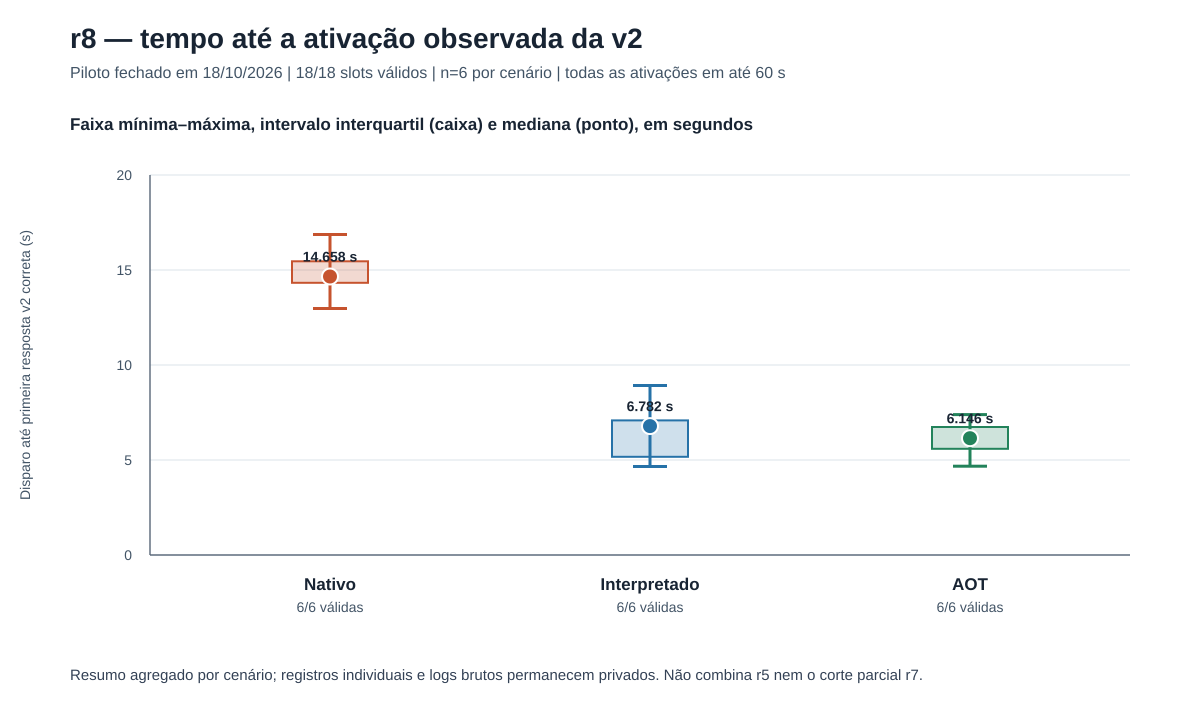
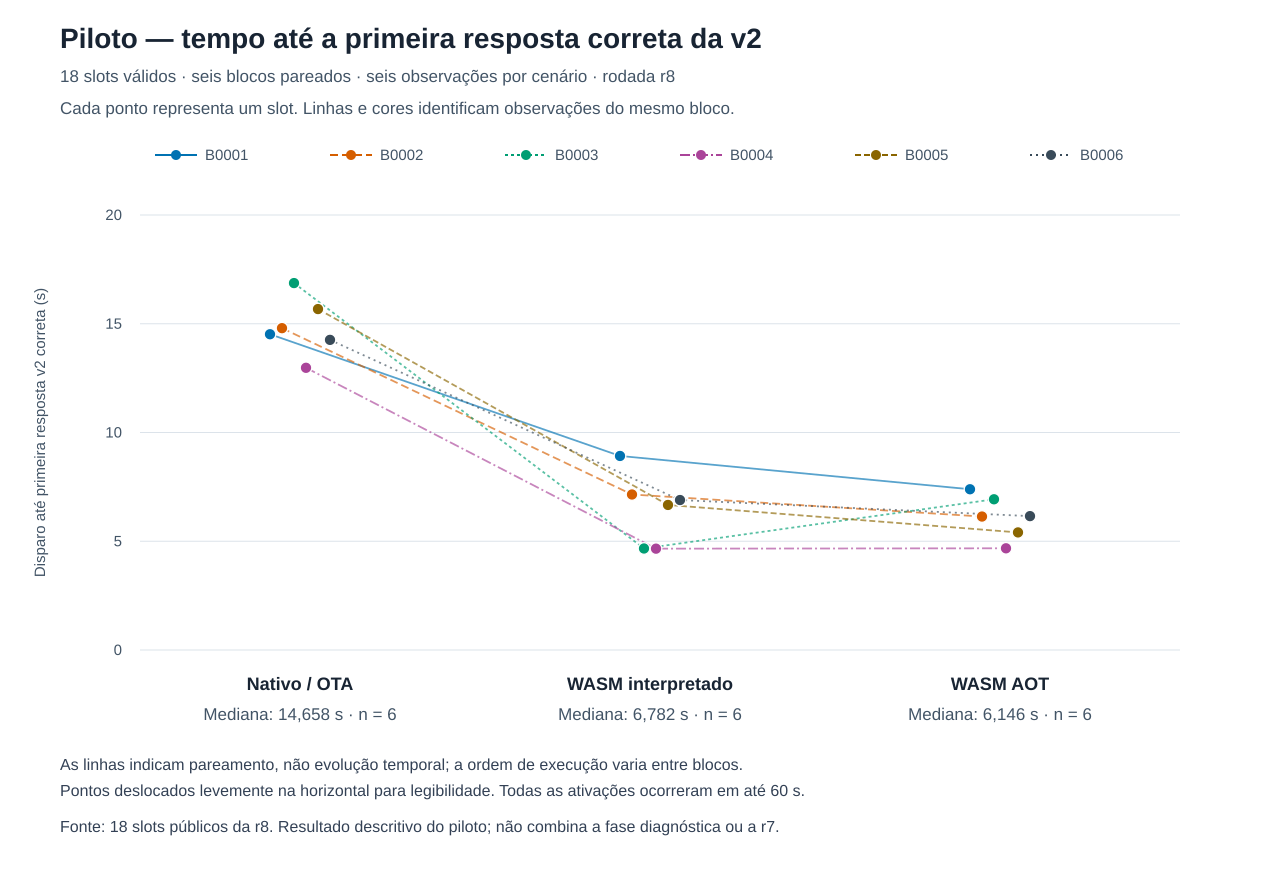
Mostra observações individuais e pareamento no gráfico do piloto

diff --git a/analysis/plot_r8_pilot.py b/analysis/plot_r8_pilot.py
@@ -1,88 +1,100 @@
 #!/usr/bin/env python3
-"""Render aggregate r8 pilot activation summaries from the sanitized CSV."""
+"""Render paired r8 observations and medians from public sanitized CSVs."""
 import argparse
 import csv
 import html
 import subprocess
+from decimal import Decimal
 from pathlib import Path
+from summarize_r8_pilot import summarize
 
-COLORS = {"native": "#C6532E", "interp": "#2672A8", "aot": "#23835B"}
-LABELS = {"native": "Nativo", "interp": "Interpretado", "aot": "AOT"}
-ORDER = ("native", "interp", "aot")
+ORDER = ('native', 'interp', 'aot')
+LABELS = {'native': 'Nativo / OTA', 'interp': 'WASM interpretado', 'aot': 'WASM AOT'}
+COLORS = ('#0072B2', '#D55E00', '#009E73', '#AA4499', '#8A6500', '#394B59')
+DASHES = ('', '8 4', '3 3', '10 3 2 3', '6 3', '2 4')
 
 
-def render(rows, svg_path, png_path=None):
-    width, height = 1200, 710
-    left, right = 150, 1130
-    top, bottom = 175, 555
-    y_max = 20.0
-    scale = (bottom - top) / y_max
-    x_positions = {"native": 330, "interp": 650, "aot": 970}
-    by_scenario = {row["scenario"]: row for row in rows}
+def render(rows, slots, svg_path, png_path=None):
+    calculated = summarize(slots)
+    if rows != [{key: str(value) for key, value in row.items()} for row in calculated]:
+        raise ValueError('Aggregate CSV differs from the individual observations.')
+    blocks = sorted({r['block_id'] for r in slots})
+    indexed = {(r['block_id'], r['scenario']): r for r in slots}
+    if any(r['instrument_status'] != 'valid' or r['adjudication'] != 'valid'
+           or not r['activation_time_s'] for r in slots):
+        raise ValueError('This r8 figure requires all 18 adjudicated activation observations.')
+    if any(not Decimal(r['activation_time_s']).is_finite()
+           or not 0 <= Decimal(r['activation_time_s']) <= 20 for r in slots):
+        raise ValueError('Activation observation outside the displayed 0–20 s range.')
+    width, height = 1280, 870
+    left, right, top, bottom = 140, 1180, 215, 650
+    xpos = dict(zip(ORDER, (300, 650, 1000)))
+    y = lambda value: bottom - float(value) * (bottom - top) / 20
     esc = lambda value: html.escape(str(value), quote=True)
     out = [
-        f'<svg xmlns="http://www.w3.org/2000/svg" width="{width}" height="{height}" viewBox="0 0 {width} {height}">',
-        '<rect width="100%" height="100%" fill="#fff"/>',
-        '<style>text{font-family:Arial,Helvetica,sans-serif;fill:#182433}.title{font-size:28px;font-weight:700}.sub{font-size:16px;fill:#425466}.panel{font-size:17px;font-weight:700}.tick{font-size:14px;fill:#425466}.axis{stroke:#586777;stroke-width:1.4}.grid{stroke:#dce3ea;stroke-width:1}.note{font-size:15px;fill:#334155}.category{font-size:17px;font-weight:700}.value{font-size:14px;font-weight:700}</style>',
-        '<text class="title" x="70" y="48">r8 — tempo até a ativação observada da v2</text>',
-        '<text class="sub" x="70" y="78">Piloto fechado em 18/10/2026 | 18/18 slots válidos | n=6 por cenário | todas as ativações em até 60 s</text>',
-        '<text class="panel" x="70" y="130">Faixa mínima–máxima, intervalo interquartil (caixa) e mediana (ponto), em segundos</text>',
+        f'<svg xmlns="http://www.w3.org/2000/svg" width="{width}" height="{height}" viewBox="0 0 {width} {height}" role="img" aria-labelledby="title desc">',
+        '<title id="title">Piloto r8: tempos individuais de ativação da v2, pareados por bloco</title>',
+        '<desc id="desc">Seis blocos com três cenários cada. Cada ponto é um slot; as linhas unem o mesmo bloco. As medianas de cada cenário são informadas abaixo do eixo. A ordem no eixo não representa a ordem de execução.</desc>',
+        '<rect width="100%" height="100%" fill="white"/>',
+        '<style>text{font-family:DejaVu Sans,Arial,sans-serif;fill:#182433}.title{font-size:28px;font-weight:700}.sub{font-size:17px;fill:#425466}.tick{font-size:15px;fill:#425466}.label{font-size:18px;font-weight:700}.note{font-size:16px;fill:#334155}</style>',
+        '<text class="title" x="60" y="48">Piloto — tempo até a primeira resposta correta da v2</text>',
+        '<text class="sub" x="60" y="82">18 slots válidos · seis blocos pareados · seis observações por cenário · rodada r8</text>',
+        '<text class="sub" x="60" y="114">Cada ponto representa um slot. Linhas e cores identificam observações do mesmo bloco.</text>',
     ]
-    tick = 0
-    while tick <= y_max:
-        y = bottom - tick * scale
-        out += [
-            f'<line class="grid" x1="{left}" y1="{y:.1f}" x2="{right}" y2="{y:.1f}"/>',
-            f'<text class="tick" x="{left-18}" y="{y+5:.1f}" text-anchor="end">{tick}</text>',
-        ]
-        tick += 5
-    out += [
-        f'<line class="axis" x1="{left}" y1="{top}" x2="{left}" y2="{bottom}"/>',
-        f'<line class="axis" x1="{left}" y1="{bottom}" x2="{right}" y2="{bottom}"/>',
-        f'<text class="tick" x="30" y="{(top+bottom)/2:.1f}" transform="rotate(-90 30 {(top+bottom)/2:.1f})" text-anchor="middle">Disparo até primeira resposta v2 correta (s)</text>',
-    ]
+    for i, block in enumerate(blocks):
+        x = 155 + i * 175
+        dash = f' stroke-dasharray="{DASHES[i]}"' if DASHES[i] else ''
+        out += [f'<line x1="{x}" y1="155" x2="{x+42}" y2="155" stroke="{COLORS[i]}" stroke-width="2"{dash}/>',
+                f'<circle cx="{x+21}" cy="155" r="5" fill="{COLORS[i]}"/>',
+                f'<text class="tick" x="{x+50}" y="160">{esc(block)}</text>']
+    for tick in range(0, 21, 5):
+        out += [f'<line x1="{left}" y1="{y(tick)}" x2="{right}" y2="{y(tick)}" stroke="#dce3ea"/>',
+                f'<text class="tick" x="{left-18}" y="{y(tick)+5}" text-anchor="end">{tick}</text>']
+    out.append(f'<text class="tick" transform="translate(45 {(top+bottom)/2}) rotate(-90)" text-anchor="middle">Disparo até primeira resposta v2 correta (s)</text>')
+    # A small, fixed horizontal offset per block separates nearby observations;
+    # it is repeated across categories and does not encode another measurement.
+    for i, block in enumerate(blocks):
+        offset = (i - 2.5) * 12
+        points = [(xpos[s] + offset, y(indexed[block, s]['activation_time_s'])) for s in ORDER]
+        dash = f' stroke-dasharray="{DASHES[i]}"' if DASHES[i] else ''
+        coords = ' '.join(f'{x:.2f},{v:.2f}' for x, v in points)
+        out.append(f'<polyline points="{coords}" fill="none" stroke="{COLORS[i]}" stroke-width="1.8" opacity="0.65"{dash}/>')
+    for i, block in enumerate(blocks):
+        for scenario in ORDER:
+            r = indexed[block, scenario]
+            x = xpos[scenario] + (i - 2.5) * 12
+            out.append(f'<circle cx="{x}" cy="{y(r["activation_time_s"]):.2f}" r="5.8" fill="{COLORS[i]}" stroke="white" stroke-width="1.3"><title>{esc(block)} · {esc(LABELS[scenario])}: {esc(r["activation_time_s"])} s; posição {esc(r["order_in_block"])} no bloco</title></circle>')
+    summaries = {r['scenario']: r for r in rows}
     for scenario in ORDER:
-        row = by_scenario[scenario]
-        x = x_positions[scenario]
-        color = COLORS[scenario]
-        y_min = bottom - float(row["activation_min_s"]) * scale
-        y_q1 = bottom - float(row["activation_q1_s"]) * scale
-        y_med = bottom - float(row["activation_median_s"]) * scale
-        y_q3 = bottom - float(row["activation_q3_s"]) * scale
-        y_max_row = bottom - float(row["activation_max_s"]) * scale
-        out += [
-            f'<line x1="{x}" y1="{y_max_row:.1f}" x2="{x}" y2="{y_min:.1f}" stroke="{color}" stroke-width="3"/>',
-            f'<line x1="{x-17}" y1="{y_max_row:.1f}" x2="{x+17}" y2="{y_max_row:.1f}" stroke="{color}" stroke-width="3"/>',
-            f'<line x1="{x-17}" y1="{y_min:.1f}" x2="{x+17}" y2="{y_min:.1f}" stroke="{color}" stroke-width="3"/>',
-            f'<rect x="{x-38}" y="{y_q3:.1f}" width="76" height="{y_q1-y_q3:.1f}" fill="{color}" fill-opacity="0.22" stroke="{color}" stroke-width="2"/>',
-            f'<circle cx="{x}" cy="{y_med:.1f}" r="8" fill="{color}" stroke="#fff" stroke-width="2"><title>{esc(LABELS[scenario])}: mediana {float(row["activation_median_s"]):.3f} s; faixa {float(row["activation_min_s"]):.3f}–{float(row["activation_max_s"]):.3f} s</title></circle>',
-            f'<text class="value" x="{x}" y="{y_med-15:.1f}" text-anchor="middle">{float(row["activation_median_s"]):.3f} s</text>',
-            f'<text class="category" x="{x}" y="{bottom+35}" text-anchor="middle">{esc(LABELS[scenario])}</text>',
-            f'<text class="tick" x="{x}" y="{bottom+57}" text-anchor="middle">6/6 válidas</text>',
-        ]
+        x = xpos[scenario]
+        median = summaries[scenario]['activation_median_s'].replace('.', ',')
+        out += [f'<text class="label" x="{x}" y="690" text-anchor="middle">{esc(LABELS[scenario])}</text>',
+                f'<text class="sub" x="{x}" y="720" text-anchor="middle">Mediana: {median} s · n = 6</text>']
     out += [
-        '<text class="note" x="70" y="680">Resumo agregado por cenário; registros individuais e logs brutos permanecem privados. Não combina r5 nem o corte parcial r7.</text>',
+        '<text class="note" x="60" y="770">As linhas indicam pareamento, não evolução temporal; a ordem de execução varia entre blocos.</text>',
+        '<text class="note" x="60" y="796">Pontos deslocados levemente na horizontal para legibilidade. Todas as ativações ocorreram em até 60 s.</text>',
+        '<text class="note" x="60" y="832">Fonte: 18 slots públicos da r8. Resultado descritivo do piloto; não combina a fase diagnóstica ou a r7.</text>',
         '</svg>',
     ]
     svg_path.parent.mkdir(parents=True, exist_ok=True)
-    svg_path.write_text("\n".join(out) + "\n", encoding="utf-8")
+    svg_path.write_text('\n'.join(out) + '\n', encoding='utf-8')
     if png_path:
         png_path.parent.mkdir(parents=True, exist_ok=True)
-        subprocess.run(["rsvg-convert", "-w", str(width), "-h", str(height), "-o", str(png_path), str(svg_path)], check=True)
+        subprocess.run(['rsvg-convert', '-o', str(png_path), str(svg_path)], check=True)
 
 
 def main():
-    parser = argparse.ArgumentParser()
-    parser.add_argument("--csv", required=True, type=Path)
-    parser.add_argument("--svg", required=True, type=Path)
-    parser.add_argument("--png", type=Path)
+    parser = argparse.ArgumentParser(description=__doc__)
+    parser.add_argument('--csv', required=True, type=Path, help='scenario aggregate CSV')
+    parser.add_argument('--slots', required=True, type=Path, help='individual slot CSV')
+    parser.add_argument('--svg', required=True, type=Path)
+    parser.add_argument('--png', type=Path)
     args = parser.parse_args()
-    with args.csv.open(encoding="utf-8-sig", newline="") as handle:
-        rows = list(csv.DictReader(handle))
-    if {row["scenario"] for row in rows} != set(ORDER):
-        raise SystemExit("CSV must contain exactly one aggregate row for native, interp, and aot")
-    render(rows, args.svg, args.png)
+    def read(path):
+        with path.open(encoding='utf-8-sig', newline='') as handle:
+            return list(csv.DictReader(handle))
+    render(read(args.csv), read(args.slots), args.svg, args.png)
 
 
-if __name__ == "__main__":
+if __name__ == '__main__':
     main()

diff --git a/EVIDENCE_INDEX.md b/EVIDENCE_INDEX.md
@@ -21,7 +21,7 @@ O [manifesto da r8](campaigns/r8-piloto-issue20/manifest.json) distingue a revis
 | Figura | Arquivo público e script | Fonte dos dados ou da imagem | Revisão/estado |
 |---|---|---|---|
 | **Figura 1 — diagnóstico r5 por bloco e tempos de ativação modular** | [PNG](analysis/figures/r5-diagnostica.png), [SVG](analysis/figures/r5-diagnostica.svg), [script](analysis/plot_r5_diagnostic.py) | [CSV r5](data/r5-diagnostica-perfis-legados.csv) | Perfis legados; não incluir r7 ou r8 na série. |
-| **Figura 2 — tempo até v2 no piloto r8** | [PNG](analysis/figures/r8-piloto-18-slots.png), [SVG](analysis/figures/r8-piloto-18-slots.svg), [script](analysis/plot_r8_pilot.py) | [Resumo r8](data/r8-piloto-issue20-summary.csv), recalculável dos [18 slots](data/r8-piloto-issue20-slots.csv) | `issue20-v1.0`; n=6 por cenário, sem conclusão confirmatória. |
+| **Figura 2 — tempo até v2 no piloto r8** | [PNG](analysis/figures/r8-piloto-18-slots.png), [SVG](analysis/figures/r8-piloto-18-slots.svg), [script](analysis/plot_r8_pilot.py) | [18 slots](data/r8-piloto-issue20-slots.csv), ligados por bloco, e medianas do [resumo r8](data/r8-piloto-issue20-summary.csv) | `issue20-v1.0`; n=6 por cenário, sem conclusão confirmatória. |
 | **Figura 3 — topologia da bancada** | [PNG](hardware/topologia-experimental.png), [SVG](hardware/topologia-experimental.svg) | [Descrição dos papéis e fluxos](hardware/README.md) | O teste temporário TCP/HTTP placa→CT107 é separado do UDP do observador. |
 | **Figura 4 — esquema elétrico original** | [PNG original](hardware/esquematico-da-bancada.png) | [Pinagem e ligações](hardware/README.md) | Figura original fornecida pelo autor; não foi redesenhada neste pacote. |
 | **Figura 5 — fotografia da montagem real** | [JPG](hardware/foto-bancada-real.jpg) | [Descrição da montagem](hardware/README.md) | A foto documenta a bancada, mas alguns contatos ficam encobertos; consultar o esquemático. |
@@ -31,3 +31,5 @@ O [gráfico do corte r7](analysis/figures/r7-piloto-schema2-corte-8-slots.png) (
 ## Alcance do índice
 
 Este índice cobre as evidências experimentais e a bancada desta contribuição. Elementos anteriores do manuscrito, como arquitetura conceitual, revisão bibliográfica e tabela de calibração do observador, exigem suas próprias fontes e não são derivados dos CSVs de campanha aqui publicados. O [guia de reprodução](reproduce/README.md) distingue a regeneração dos gráficos, o recálculo dos agregados r8 e a repetição da coleta física.
+
+Na versão v0.1.1, a figura pública do piloto passou a exibir pontos individuais e linhas por bloco. Ela substitui visualmente a síntese por caixa e extremos; o documento de contribuição de 18/10/2026 ainda contém a representação anterior. Os dados e as estatísticas não mudaram.

diff --git a/analysis/README.md b/analysis/README.md
@@ -2,11 +2,11 @@
 
 ## Piloto r8 da issue #20
 
-A figura r8 apresenta, por cenário, o tempo entre o disparo e a primeira resposta v2 correta: linha fina de mínimo a máximo, caixa do intervalo interquartil e ponto da mediana. Cada grupo contém seis slots válidos. Todos os 18 tempos ficaram abaixo do limite protocolar de 60 s.
+A figura r8 apresenta os 18 tempos individuais entre o disparo e a primeira resposta v2 correta, seis por cenário. Cores e padrões de linha identificam os seis blocos; cada linha liga os três slots do mesmo bloco. As linhas representam pareamento, não evolução temporal: a ordem de execução varia entre blocos. Um pequeno deslocamento horizontal fixo por bloco separa pontos próximos, sem representar outra medida. As medianas aparecem abaixo de cada cenário; quartis e extremos continuam disponíveis no CSV agregado. Todos os tempos ficaram abaixo do limite protocolar de 60 s.
 
 ![r8: tempo até v2 no piloto concluído](figures/r8-piloto-18-slots.png)
 
-As 18 observações individuais estão no [CSV sanitizado por slot](../data/r8-piloto-issue20-slots.csv). O [script de resumo](summarize_r8_pilot.py) calcula o [CSV agregado por cenário](../data/r8-piloto-issue20-summary.csv), que alimenta o gráfico. Os resumos brutos permanecem privados. É possível recalcular os números e regenerar a figura com Python 3 (biblioteca padrão) e `rsvg-convert` para o PNG. Versões verificadas nesta entrega: Python 3.14.7 e librsvg 2.62.3.
+As 18 observações individuais estão no [CSV sanitizado por slot](../data/r8-piloto-issue20-slots.csv). O [script de resumo](summarize_r8_pilot.py) calcula o [CSV agregado por cenário](../data/r8-piloto-issue20-summary.csv), usado para as medianas do gráfico. Os pontos e as linhas vêm diretamente do CSV individual; o gerador confere a correspondência do resumo com esses dados. Os resumos brutos permanecem privados. É possível recalcular os números e regenerar a figura com Python 3 (biblioteca padrão) e `rsvg-convert` para o PNG. Versões verificadas nesta entrega: Python 3.14.7 e librsvg 2.62.3.
 
 ```sh
 python3 analysis/summarize_r8_pilot.py \
@@ -21,6 +21,7 @@ Para regenerar o SVG e o PNG:
 ```sh
 python3 analysis/plot_r8_pilot.py \
   --csv data/r8-piloto-issue20-summary.csv \
+  --slots data/r8-piloto-issue20-slots.csv \
   --svg analysis/figures/r8-piloto-18-slots.svg \
   --png analysis/figures/r8-piloto-18-slots.png
 ```

diff --git a/CHANGELOG.md b/CHANGELOG.md
@@ -1,5 +1,11 @@
 # Histórico do pacote de evidências
 
+## v0.1.1 — 18 de outubro de 2026
+
+- Gráfico do piloto substituído por 18 pontos individuais, com linhas, cores e padrões que identificam o pareamento nos seis blocos. Medianas mantidas abaixo de cada cenário; estatísticas e dados não foram alterados.
+- Script usa o CSV individual e confere o resumo agregado antes de gerar a figura. Documentação e comandos atualizados com `--slots`.
+- PNG e SVG atualizados no repositório; o documento de contribuição mantém a figura anterior.
+
 ## v0.1.0 — 18 de outubro de 2026
 
 Primeira versão marcada do pacote público. O piloto continua com 18 execuções válidas, seis atualizações completas por cenário. A publicação acrescenta meios de conferir os resultados existentes; não representa uma nova coleta.

diff --git a/reproduce/README.md b/reproduce/README.md
@@ -22,11 +22,12 @@ python3 analysis/summarize_r8_pilot.py \
   --output /tmp/r8-summary-recalculado.csv
 ```
 
-Para **regenerar a figura r8** a partir do resumo publicado:
+Para **regenerar a figura r8** a partir das observações individuais e do resumo publicado:
 
 ```sh
 python3 analysis/plot_r8_pilot.py \
   --csv data/r8-piloto-issue20-summary.csv \
+  --slots data/r8-piloto-issue20-slots.csv \
   --svg analysis/figures/r8-piloto-18-slots.svg \
   --png analysis/figures/r8-piloto-18-slots.png
 ```
